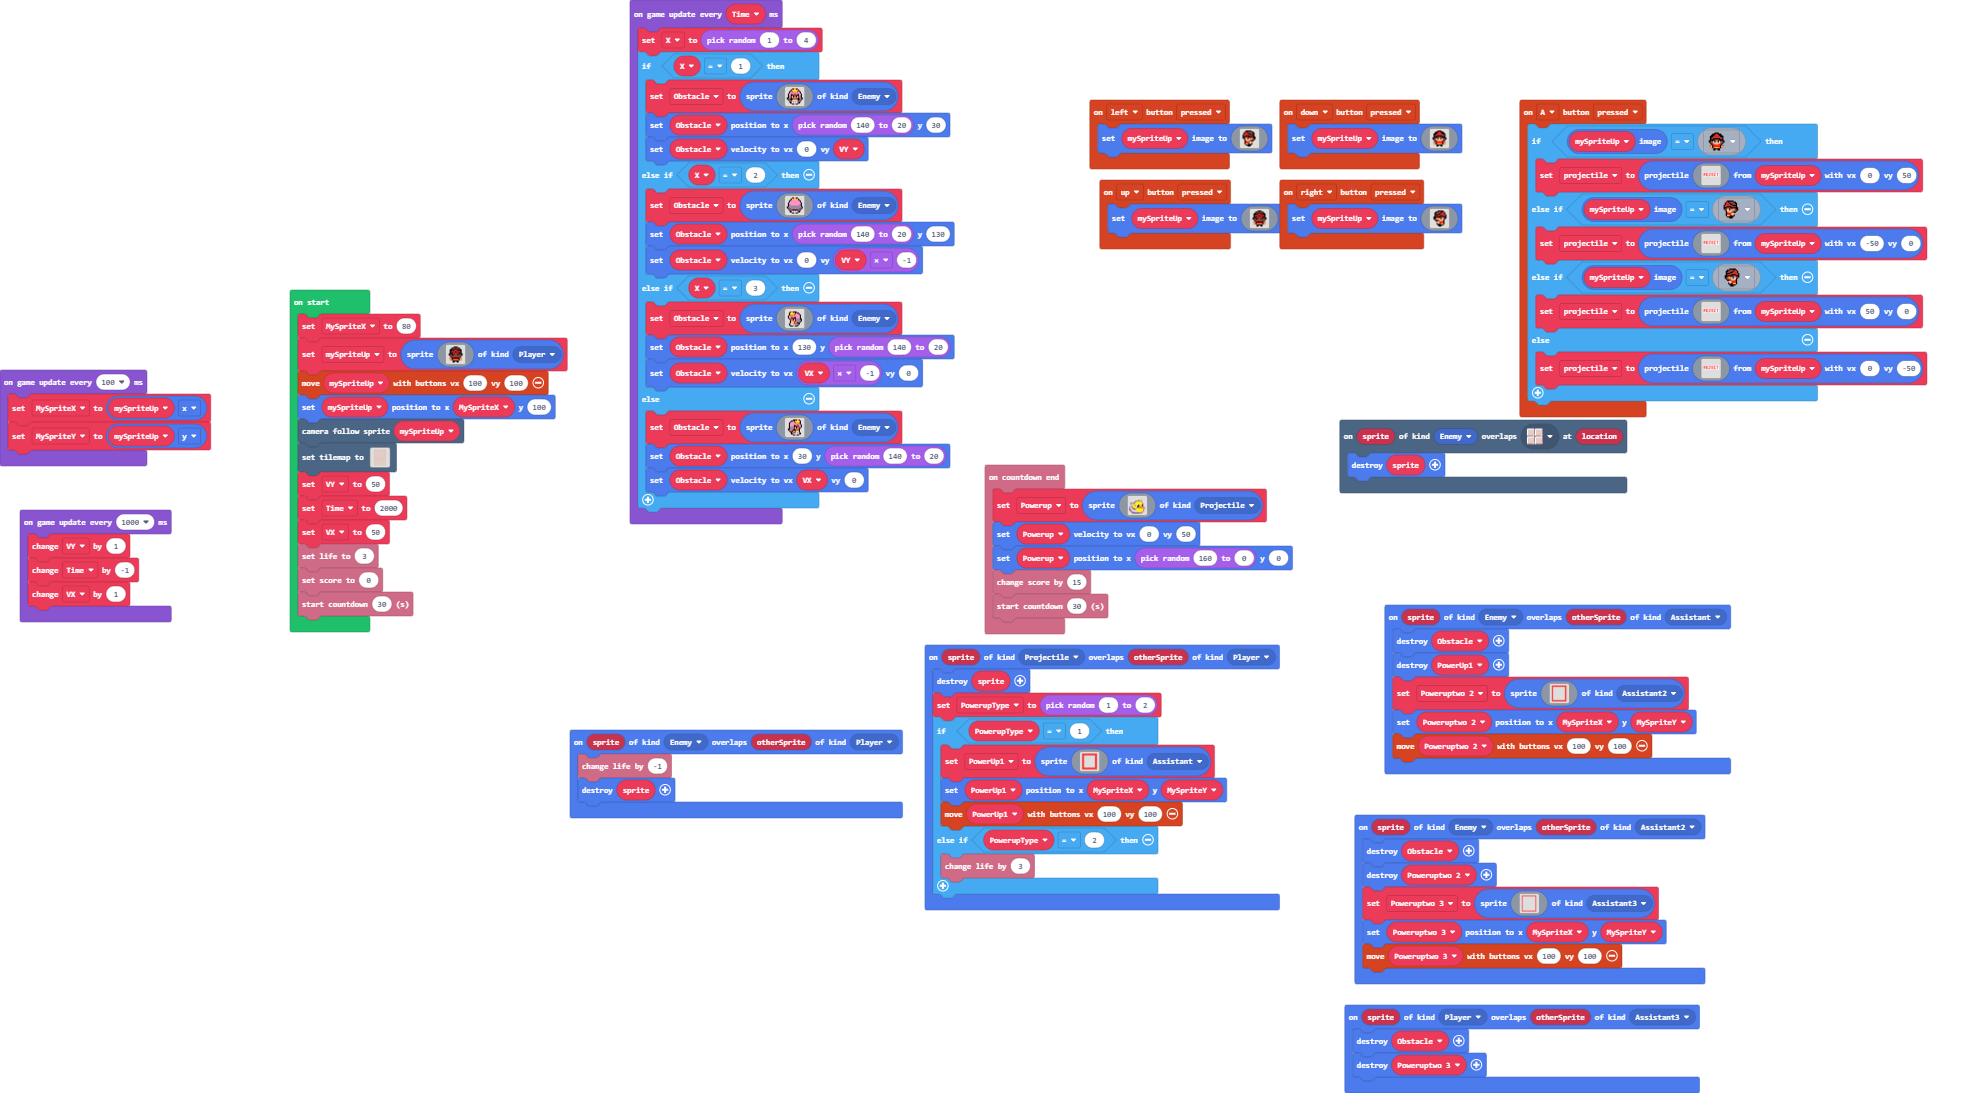
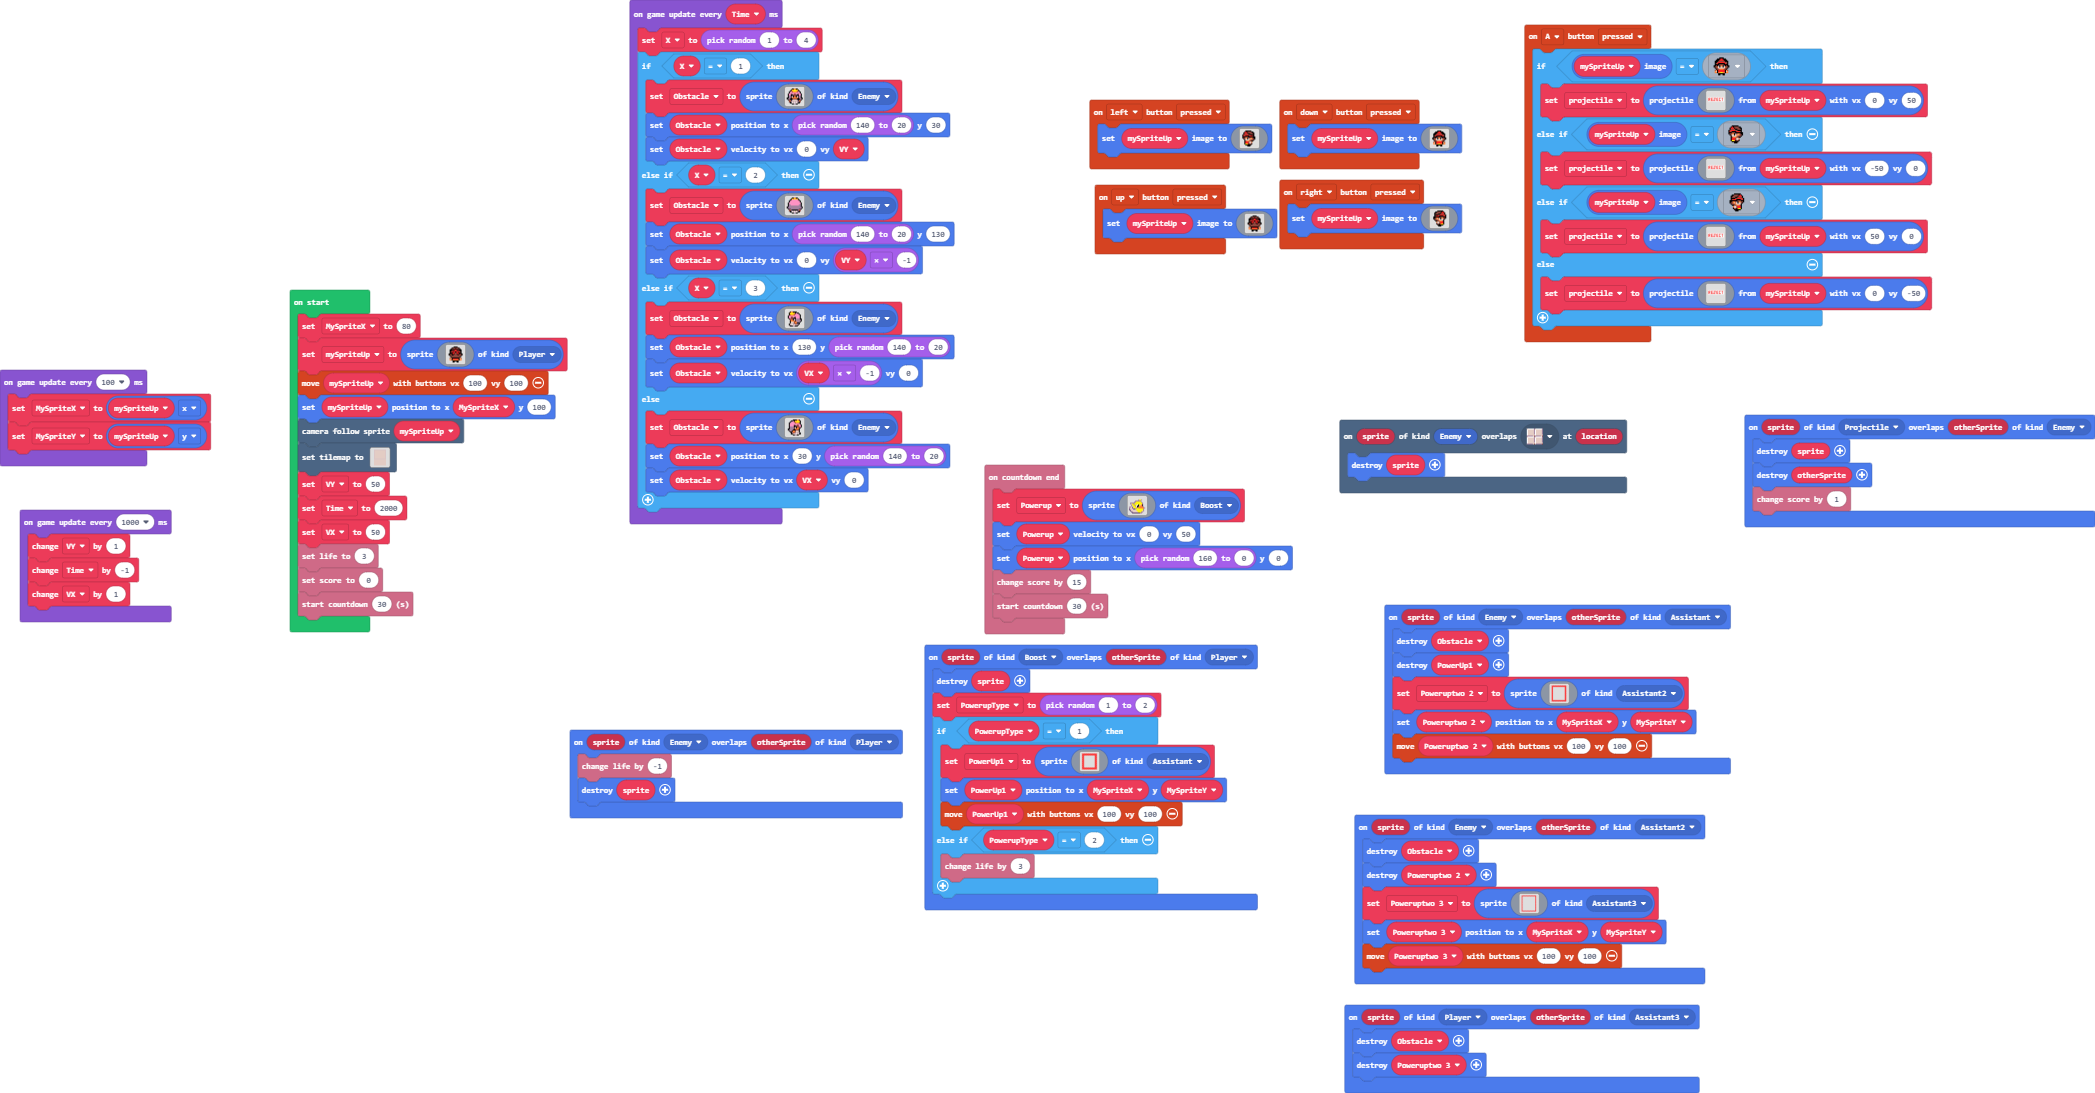
Update main.blocks, main.ts, images.g.jres, images.g.ts

Changed region(s): [[0.0, 0.0, 1.0, 1.0], [0.0, 0.4666, 0.0925, 0.5599]]

diff --git a/images.g.ts b/images.g.ts
@@ -384,6 +384,168 @@ f b b f f f e e e e f f f b b f
 ..........................
 ..........................
 `;
+            case "image21":return img`
+..........................
+..........................
+..........................
+11111111111111111111111111
+12221222122221222122212221
+12121211111211211121111211
+12221222111211222121111211
+12211211121211211121111211
+12121222122211222122211211
+11111111111111111111111111
+..........................
+..........................
+..........................
+..........................
+..........................
+..........................
+`;
+            case "image22":return img`
+..........................
+..........................
+..........................
+11111111111111111111111111
+12221222122221222122212221
+12121211111211211121111211
+12221222111211222121111211
+12211211121211211121111211
+12121222122211222122211211
+11111111111111111111111111
+..........................
+..........................
+..........................
+..........................
+..........................
+..........................
+`;
+            case "image23":return img`
+..........................
+..........................
+..........................
+11111111111111111111111111
+12221222122221222122212221
+12121211111211211121111211
+12221222111211222121111211
+12211211121211211121111211
+12121222122211222122211211
+11111111111111111111111111
+..........................
+..........................
+..........................
+..........................
+..........................
+..........................
+`;
+            case "image24":return img`
+..........................
+..........................
+..........................
+11111111111111111111111111
+12221222122221222122212221
+12121211111211211121111211
+12221222111211222121111211
+12211211121211211121111211
+12121222122211222122211211
+11111111111111111111111111
+..........................
+..........................
+..........................
+..........................
+..........................
+..........................
+`;
+            case "image25":return img`
+..........................
+..........................
+..........................
+11111111111111111111111111
+12221222122221222122212221
+12121211111211211121111211
+12221222111211222121111211
+12211211121211211121111211
+12121222122211222122211211
+11111111111111111111111111
+..........................
+..........................
+..........................
+..........................
+..........................
+..........................
+`;
+            case "image26":return img`
+..........................
+..........................
+..........................
+11111111111111111111111111
+12221222122221222122212221
+12121211111211211121111211
+12221222111211222121111211
+12211211121211211121111211
+12121222122211222122211211
+11111111111111111111111111
+..........................
+..........................
+..........................
+..........................
+..........................
+..........................
+`;
+            case "image27":return img`
+..........................
+..........................
+..........................
+11111111111111111111111111
+12221222122221222122212221
+12121211111211211121111211
+12221222111211222121111211
+12211211121211211121111211
+12121222122211222122211211
+11111111111111111111111111
+..........................
+..........................
+..........................
+..........................
+..........................
+..........................
+`;
+            case "image28":return img`
+..........................
+..........................
+..........................
+11111111111111111111111111
+12221222122221222122212221
+12121211111211211121111211
+12221222111211222121111211
+12211211121211211121111211
+12121222122211222122211211
+11111111111111111111111111
+..........................
+..........................
+..........................
+..........................
+..........................
+..........................
+`;
+            case "image29":return img`
+..........................
+..........................
+..........................
+11111111111111111111111111
+12221222122221222122212221
+12121211111211211121111211
+12221222111211222121111211
+12211211121211211121111211
+12121222122211222122211211
+11111111111111111111111111
+..........................
+..........................
+..........................
+..........................
+..........................
+..........................
+`;
         }
         return null;
     })

diff --git a/main.ts b/main.ts
@@ -3,6 +3,7 @@ namespace SpriteKind {
     export const Health = SpriteKind.create()
     export const Assistant2 = SpriteKind.create()
     export const Assistant3 = SpriteKind.create()
+    export const Boost = SpriteKind.create()
 }
 sprites.onOverlap(SpriteKind.Enemy, SpriteKind.Assistant2, function (sprite, otherSprite) {
     Obstacle.destroy()
@@ -133,42 +134,6 @@ controller.A.onEvent(ControllerButtonEvent.Pressed, function () {
             `, mySpriteUp, 0, -50)
     }
 })
-sprites.onOverlap(SpriteKind.Projectile, SpriteKind.Player, function (sprite, otherSprite) {
-    sprite.destroy()
-    PowerupType = randint(1, 2)
-    if (PowerupType == 1) {
-        PowerUp1 = sprites.create(img`
-            2222222222222222222222
-            2222222222222222222222
-            2222222222222222222222
-            222................222
-            222................222
-            222................222
-            222................222
-            222................222
-            222................222
-            222................222
-            222................222
-            222................222
-            222................222
-            222................222
-            222................222
-            222................222
-            222................222
-            222................222
-            222................222
-            222................222
-            222................222
-            2222222222222222222222
-            2222222222222222222222
-            2222222222222222222222
-            `, SpriteKind.Assistant)
-        PowerUp1.setPosition(MySpriteX, MySpriteY)
-        controller.moveSprite(PowerUp1, 100, 100)
-    } else if (PowerupType == 2) {
-        info.changeLifeBy(3)
-    }
-})
 sprites.onOverlap(SpriteKind.Player, SpriteKind.Assistant3, function (sprite, otherSprite) {
     Obstacle.destroy()
     Poweruptwo_3.destroy()
@@ -214,11 +179,47 @@ info.onCountdownEnd(function () {
         . c d d d d d d 5 5 5 5 5 d b . 
         . . c b d d d d d 5 5 5 b b . . 
         . . . c c c c c c c c b b . . . 
-        `, SpriteKind.Projectile)
+        `, SpriteKind.Boost)
     Powerup.setVelocity(0, 50)
     Powerup.setPosition(randint(160, 0), 0)
     info.changeScoreBy(15)
     info.startCountdown(30)
+})
+sprites.onOverlap(SpriteKind.Boost, SpriteKind.Player, function (sprite, otherSprite) {
+    sprite.destroy()
+    PowerupType = randint(1, 2)
+    if (PowerupType == 1) {
+        PowerUp1 = sprites.create(img`
+            2222222222222222222222
+            2222222222222222222222
+            2222222222222222222222
+            222................222
+            222................222
+            222................222
+            222................222
+            222................222
+            222................222
+            222................222
+            222................222
+            222................222
+            222................222
+            222................222
+            222................222
+            222................222
+            222................222
+            222................222
+            222................222
+            222................222
+            222................222
+            2222222222222222222222
+            2222222222222222222222
+            2222222222222222222222
+            `, SpriteKind.Assistant)
+        PowerUp1.setPosition(MySpriteX, MySpriteY)
+        controller.moveSprite(PowerUp1, 100, 100)
+    } else if (PowerupType == 2) {
+        info.changeLifeBy(3)
+    }
 })
 controller.right.onEvent(ControllerButtonEvent.Pressed, function () {
     mySpriteUp.setImage(img`
@@ -295,10 +296,15 @@ controller.down.onEvent(ControllerButtonEvent.Pressed, function () {
         . . . . . f f . . f f . . . . . 
         `)
 })
+sprites.onOverlap(SpriteKind.Projectile, SpriteKind.Enemy, function (sprite, otherSprite) {
+    sprite.destroy()
+    otherSprite.destroy()
+    info.changeScoreBy(1)
+})
 let X = 0
-let Powerup: Sprite = null
 let PowerUp1: Sprite = null
 let PowerupType = 0
+let Powerup: Sprite = null
 let projectile: Sprite = null
 let MySpriteY = 0
 let Poweruptwo_3: Sprite = null
